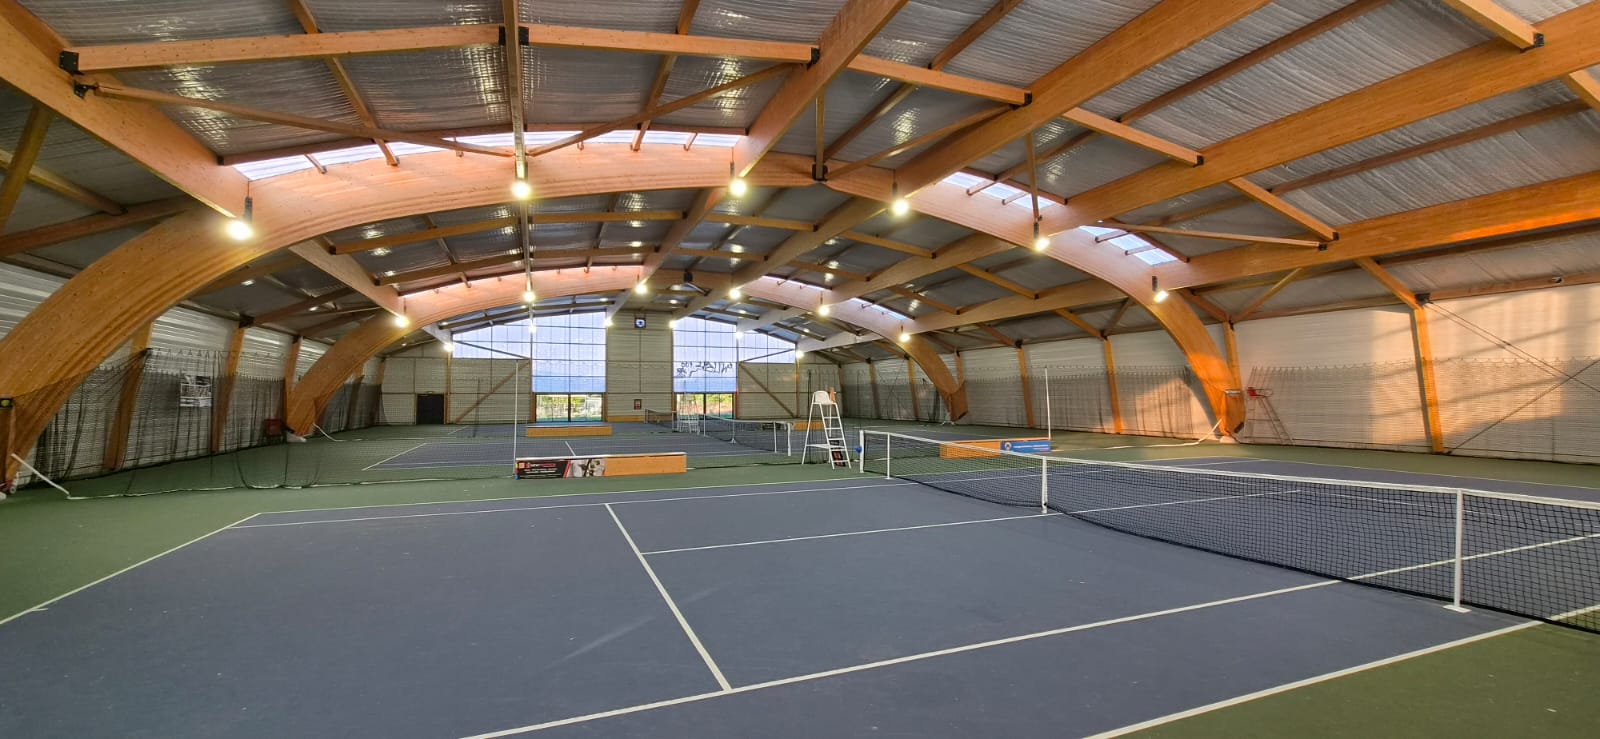
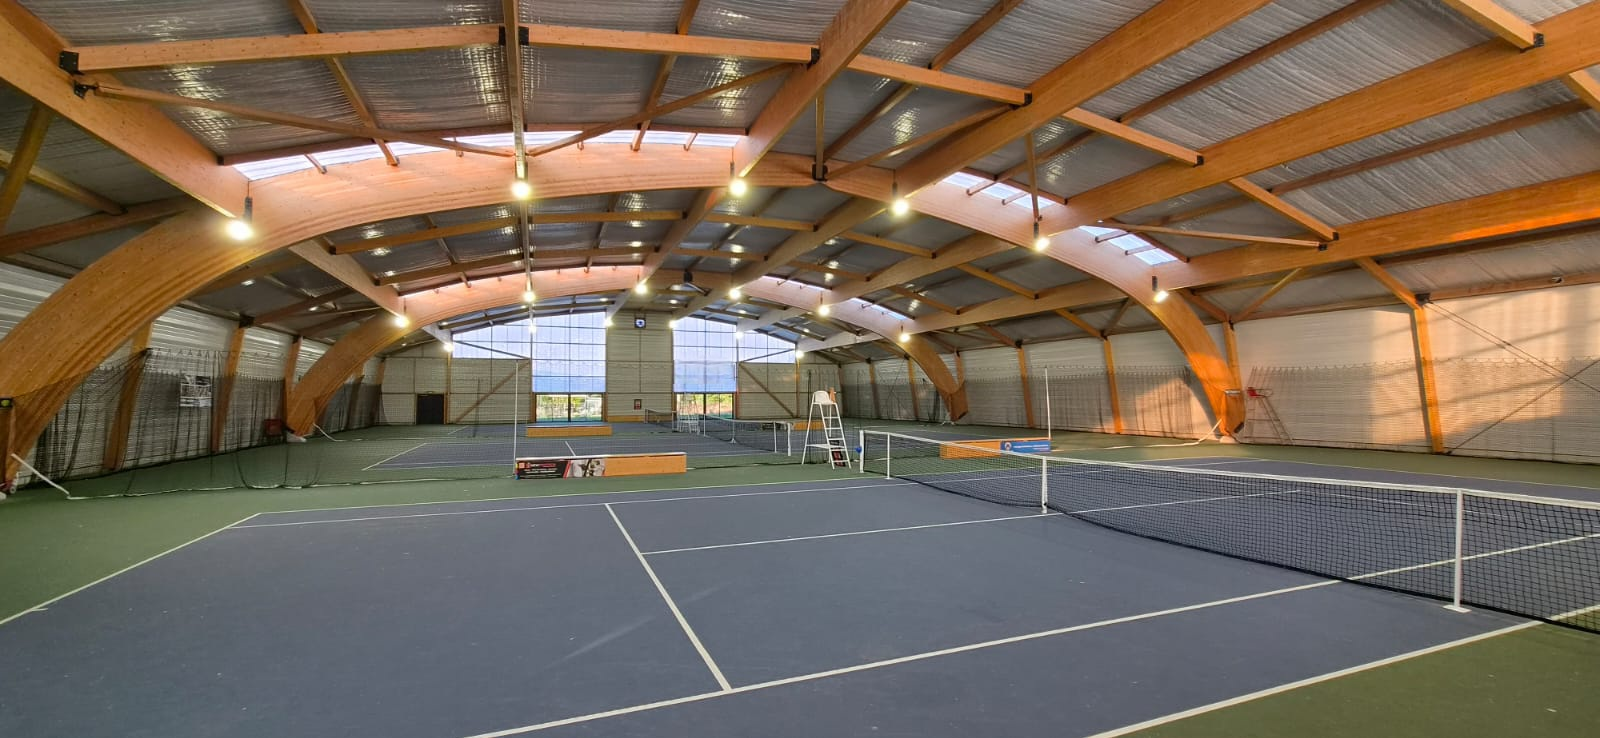
trie des photos

diff --git a/app/(public)/terrains/page.tsx b/app/(public)/terrains/page.tsx
@@ -185,9 +185,9 @@ export default function TerrainsPage() {
                 images={[
                   { src: "/images/terrain_couvert_l_0.jpeg", alt: "Hall couvert TC Vernouillet" },
                   { src: "/images/terrain_couvert_l_1.jpeg", alt: "Hall couvert TC Vernouillet" },
-                  { src: "/images/terrain_couvert_l_2.jpeg", alt: "Hall couvert TC Vernouillet" },
-                  { src: "/images/terrain_couvert_l_3.jpeg", alt: "Hall couvert TC Vernouillet" },
-                  { src: "/images/terrain_couvert_l_4.jpeg", alt: "Hall couvert TC Vernouillet" },
+                  // { src: "/images/terrain_couvert_l_2.jpeg", alt: "Hall couvert TC Vernouillet" },
+                  // { src: "/images/terrain_couvert_l_3.jpeg", alt: "Hall couvert TC Vernouillet" },
+                  // { src: "/images/terrain_couvert_l_4.jpeg", alt: "Hall couvert TC Vernouillet" },
                   { src: "/images/terrain_couvert_l_5.jpeg", alt: "Hall couvert TC Vernouillet" },
                   // { src: "/images/terrains_couverts_0.jpg", alt: "Hall couvert TC Vernouillet" },
                   // { src: "/images/terrains_couverts_1.jpg", alt: "Terrains couverts en soirée" },
